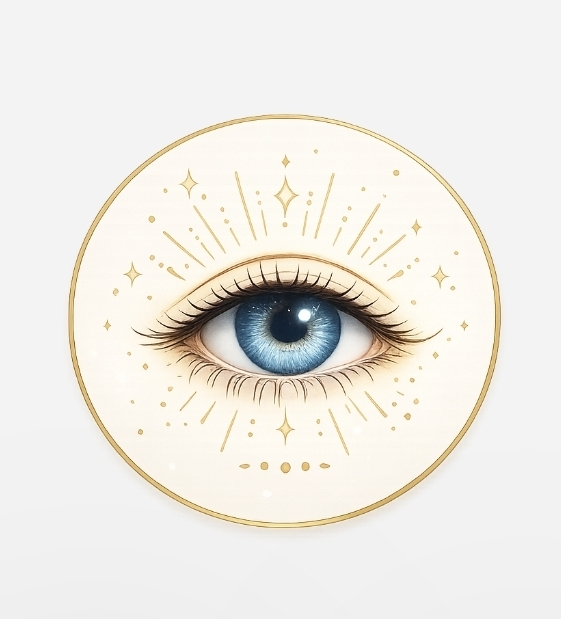
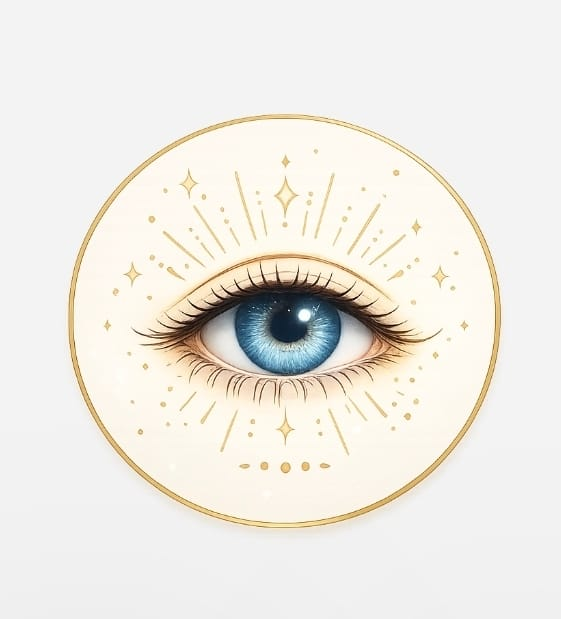
perf: otimiza pasta brand e gera AAB final 1.1.60 (26MB)
- Comprime imagens da pasta brand (2.7MB -> 0.6MB), mantendo transparencia
- AAB final cai de 97.5MB para 26MB

Versao 1.1.60 (versionCode 87)

diff --git a/scripts/compress-brand.js b/scripts/compress-brand.js
@@ -1,0 +1,25 @@
+const sharp = require('sharp');
+const fs = require('fs');
+const path = require('path');
+const dir = path.join('public','assets','brand');
+(async () => {
+  let before=0, after=0;
+  for (const name of fs.readdirSync(dir)) {
+    const f = path.join(dir, name);
+    if (!/\.(jpg|jpeg|png)$/i.test(f)) continue;
+    const orig = fs.statSync(f).size; before += orig;
+    try {
+      const input = fs.readFileSync(f);
+      let buf;
+      if (/\.png$/i.test(f)) {
+        // mantém transparência (alpha); só comprime/redimensiona
+        buf = await sharp(input).resize({ width: 450, withoutEnlargement: true }).png({ compressionLevel: 9, palette: true, quality: 80 }).toBuffer();
+      } else {
+        buf = await sharp(input).resize({ width: 600, withoutEnlargement: true }).jpeg({ quality: 80, mozjpeg: true }).toBuffer();
+      }
+      if (buf.length < orig) { fs.writeFileSync(f, buf); after += buf.length; console.log(name, (orig/1024|0)+'KB ->', (buf.length/1024|0)+'KB'); }
+      else { after += orig; }
+    } catch(e){ console.error('Falha', name, e.message); after += orig; }
+  }
+  console.log('=== brand antes:', (before/1048576).toFixed(1)+'MB -> depois:', (after/1048576).toFixed(1)+'MB');
+})();
